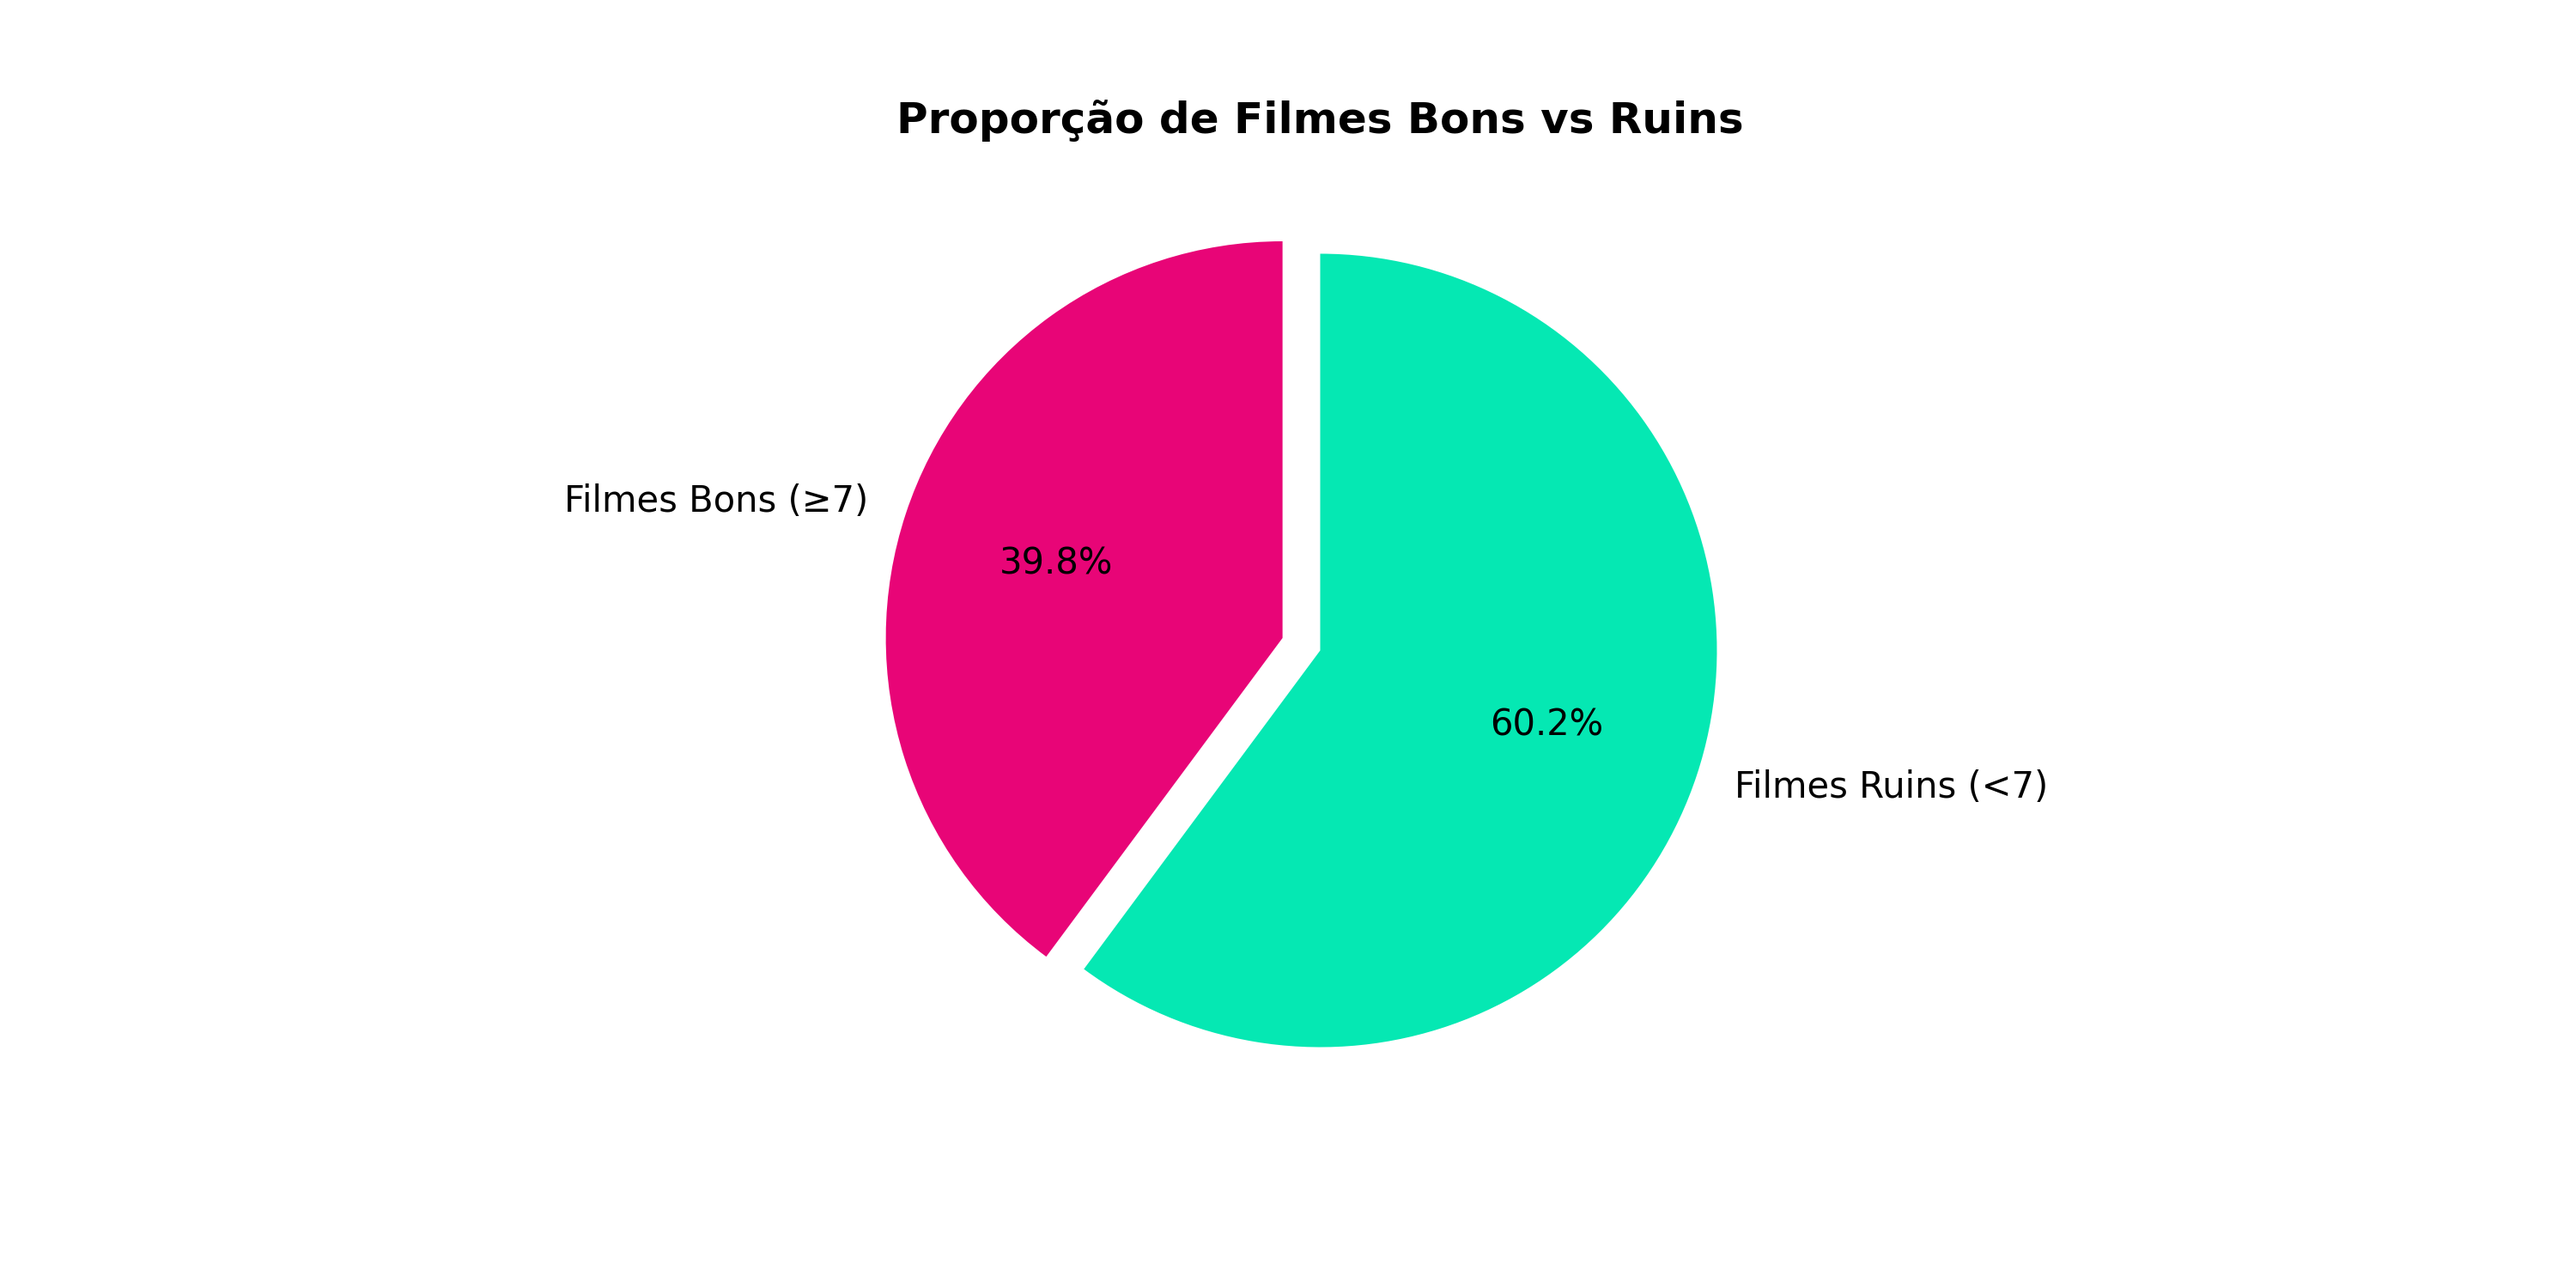
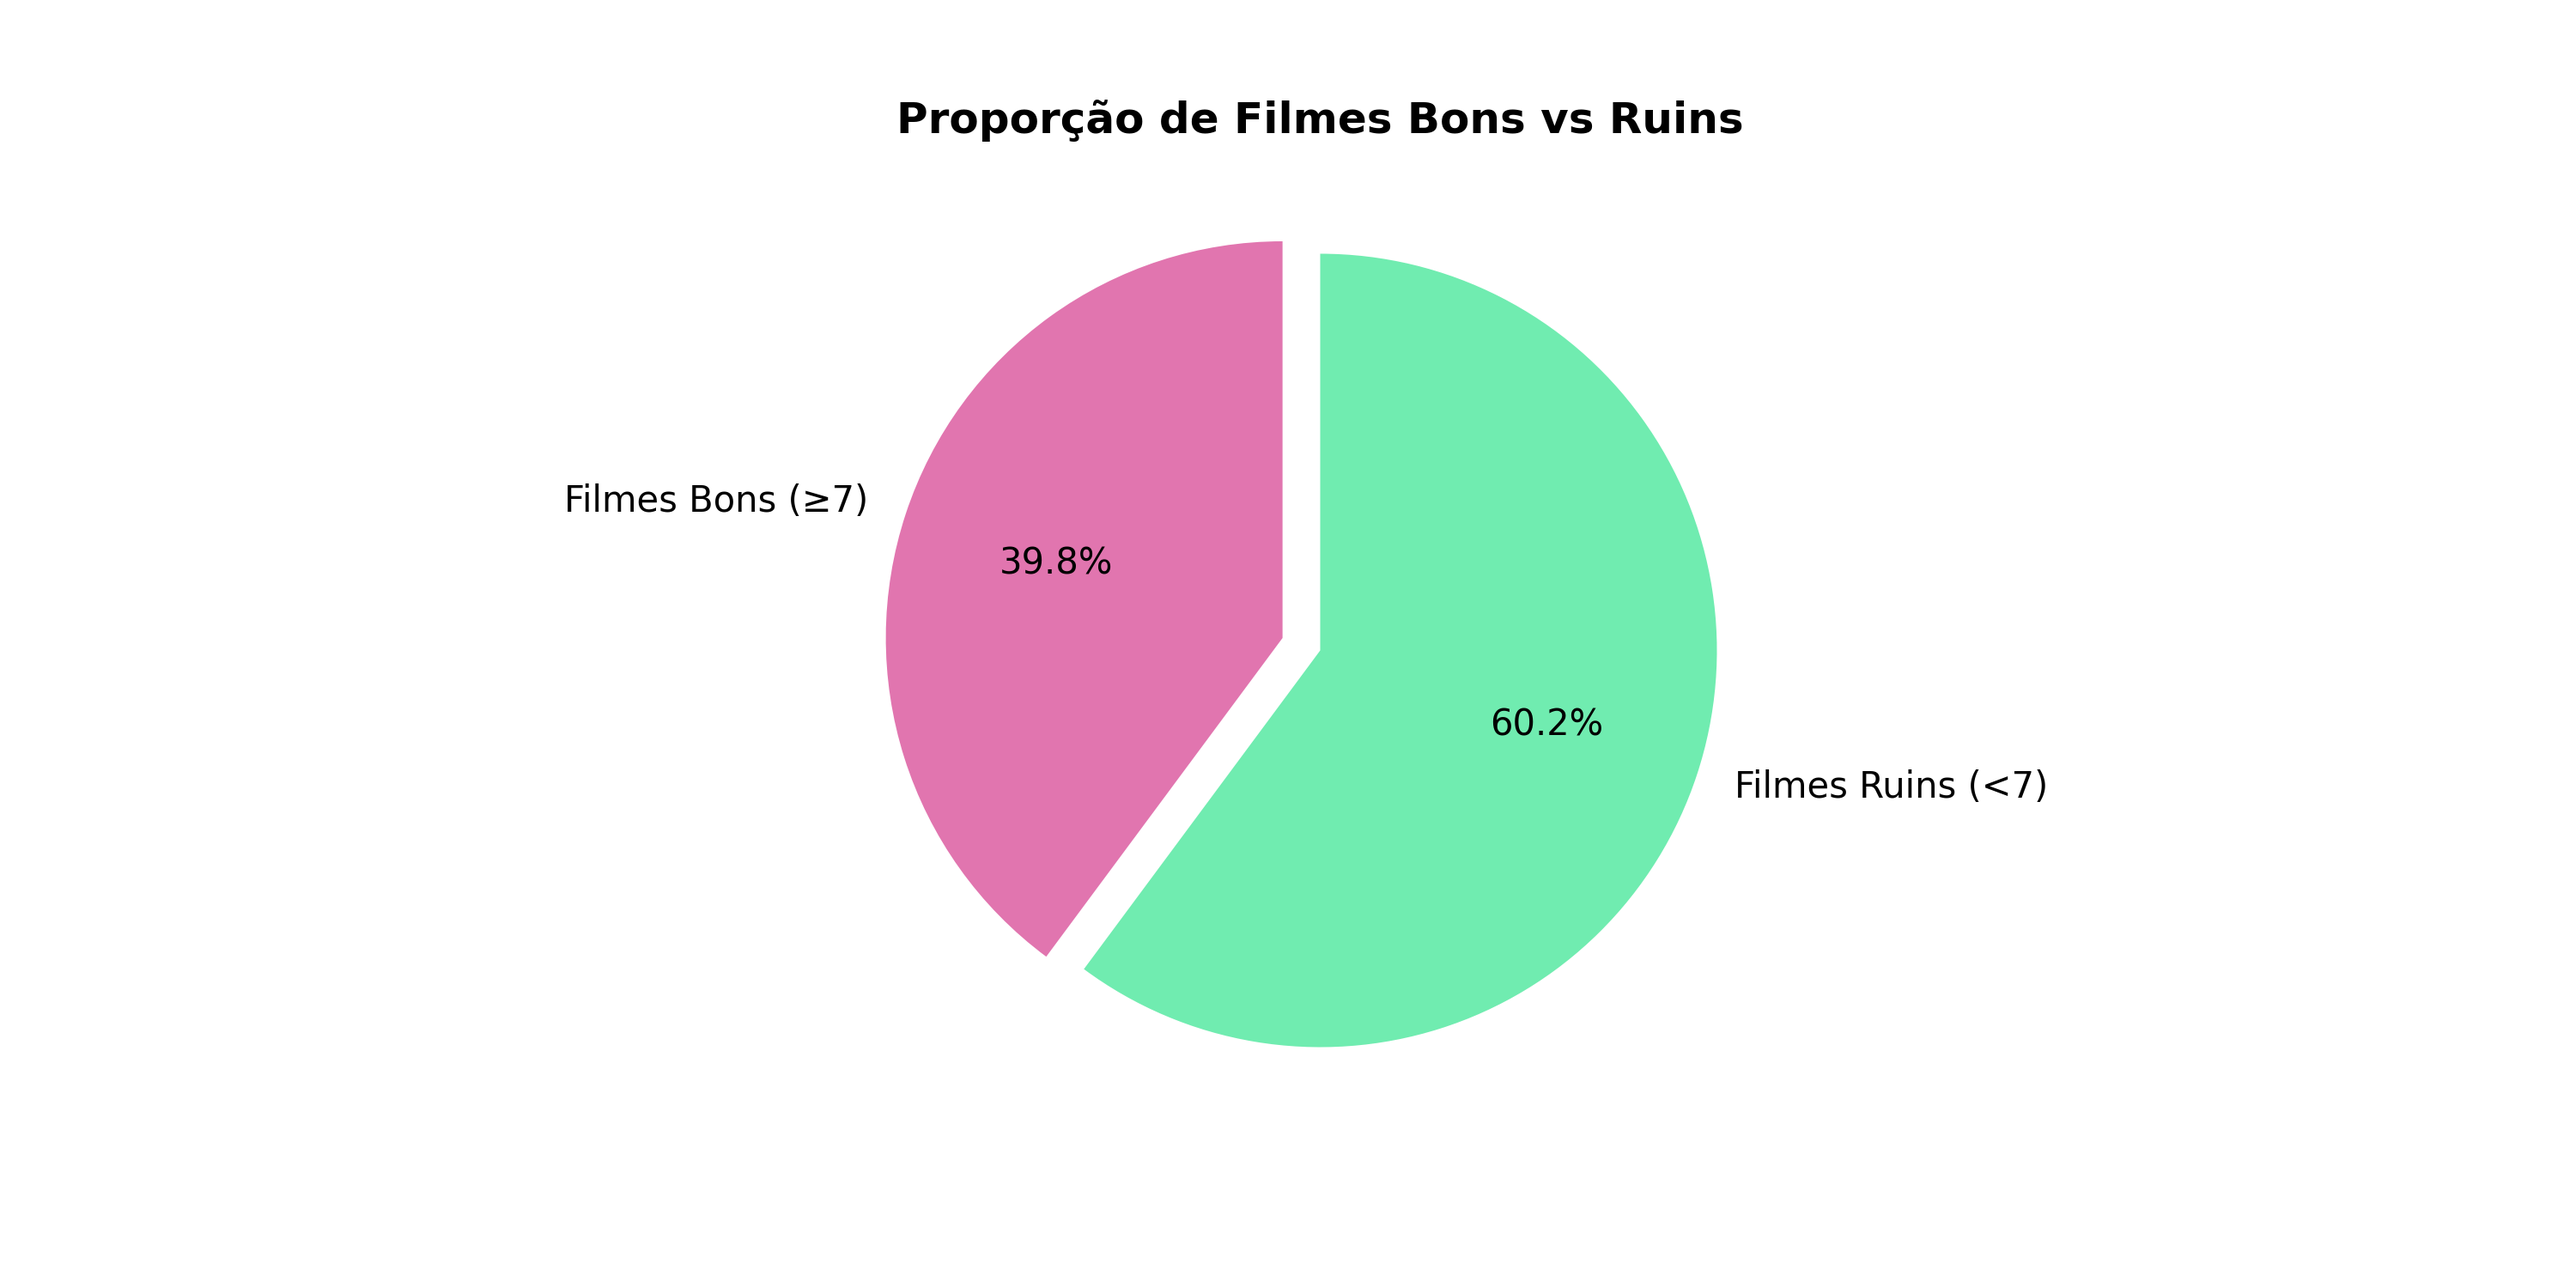
Add files via upload

Changed region(s): [[0.341, 0.184, 0.682, 0.828]]

diff --git a/trabalho_2/projeto_filmes.py b/trabalho_2/projeto_filmes.py
@@ -1,6 +1,9 @@
-# =========================
-# IMPORTAÇÃO DAS BIBLIOTECAS
-# =========================
+print('=========================')
+print('PROJETO FILMES')
+print('=========================\n\n')
+
+print('CARREGANDO AS BIBLIOTECAS...')
+print('--------------------------\n\n')
 
 import pandas as pd  
 # pandas = biblioteca para trabalhar com tabelas (DataFrame)
@@ -14,29 +17,12 @@ import matplotlib.pyplot as plt
 import seaborn as sns
 # seaborn = biblioteca para gráficos mais bonitos
 
+print('=========================')
+print('PARTE 1 - CARREGAMENTO E EXPLORAÇÃO')
+print('=========================\n\n')
 
-# =========================
-# PARTE 1 - CARREGAMENTO E EXPLORAÇÃO
-# =========================
-
-df = pd.read_csv('data.csv')  
+df = pd.read_csv('data.csv')
 # read_csv() = lê o arquivo CSV e transforma em tabela
-
-print(df.head())  
-# head() = mostra as 5 primeiras linhas
-
-print(df.shape)  
-# shape = mostra (linhas, colunas)
-
-print(df.dtypes)  
-# dtypes = mostra o tipo de cada coluna (int, float, object)
-
-print(df.info())  
-# info() = resumo geral (dados, nulos, tipos)
-
-print(df.describe())  
-# describe() = estatísticas (média, mínimo, máximo, etc)
-
 
 df.columns = df.columns.str.strip()
 # remove espaços antes/depois
@@ -44,12 +30,32 @@ df.columns = df.columns.str.strip()
 df.columns = df.columns.str.replace(" ", "_")
 # troca espaço por _
 
+print('AS 5 PRIMEIRAS LINHAS DO DATAFRAME: ')
+print(df[['Movie_Name', 'Movie_Rating']].head(), '\n') 
+# head() = mostra as 5 primeiras linhas
 
-# =========================
-# PARTE 2 - LIMPEZA 
-# =========================
+print('LINHAS X COLUNAS: ')
+print(df.shape, '\n')  
+# shape = mostra (linhas, colunas)
 
-print(df.isnull().sum())  
+print('TIPO DAS COLUNAS: ')
+print(df.dtypes, '\n')  
+# dtypes = mostra o tipo de cada coluna (int, float, object)
+
+print('RESUMO GERAL: ')
+print(df.info(), '\n')  
+# info() = resumo geral (dados, nulos, tipos)
+
+print('ESTATÍSTICAS: ')
+print(df.describe(), '\n')  
+# describe() = estatísticas (média, mínimo, máximo, etc)
+
+print('=========================')
+print('PARTE 2 - LIMPEZA ')
+print('=========================\n\n')
+
+print('VAZIOS: ')
+print(df.isnull().sum(), '\n')  
 # isnull() = verifica valores vazios
 # sum() = soma quantos tem em cada coluna
 
@@ -61,88 +67,104 @@ df = df.dropna(subset=['Gross'])
 # dropna() = remove linhas com valores vazios
 # subset = define a coluna que será verificada
 
+print('DUPLICADOS: ')
 df = df.drop_duplicates()  
 # drop_duplicates() = remove linhas repetidas
+print(df.duplicated().sum(),'\n')  
+# duplicated() = verifica quantas linhas repetidas ainda existem
 
-
-# =========================
-# PARTE 3 - ANÁLISE E FILTROS
-# =========================
+print('=========================')
+print('PARTE 3 - ANÁLISE E FILTROS')
+print('=========================\n\n')
 
 # Filmes com nota maior que 8 e mais de 100 mil votos
-filtro1 = df[(df['Movie_Rating'] > 8) & (df['Votes'] > 100000)]
+filtro1 = df[
+    (df['Movie_Rating'] > 8) &
+    (df['Votes'] > 100000)
+    ].head()
 # & = E (duas condições ao mesmo tempo)
 
-print(filtro1.head())  
+print('FILTRO 1 (Nota > 8 e Votos > 100k): ')
+print(filtro1[['Movie_Rating', 'Votes', 'Movie_Name']],'\n')  
 # mostra primeiros resultados
 
 # Filmes com nota maior que 9 ou MetaScore maior que 80
-filtro2 = df[(df['Movie_Rating'] > 9) | (df['MetaScore'] > 80)]
+filtro2 = df[
+    (df['Movie_Rating'] > 9) |
+    (df['MetaScore'] > 80)
+].head()
 # | = OU (uma ou outra condição)
 
-print(filtro2.head())
+print('FILTRO 2 (Nota > 9 ou MetaScore > 80): ')
+print(filtro2[['Movie_Rating', 'MetaScore', 'Movie_Name']],'\n')
 
 # Filmes com nota menor que 7 usando o 'não'
-filtro3 = df[~(df['Movie_Rating'] >= 7)]
+filtro3 = df[
+    ~(df['Movie_Rating'] >= 7)
+    ].head()
 # ~ = NÃO (negação)
 
-print(filtro3.head())
+print('FILTRO 3 (Nota < 7): ')
+print(filtro3[['Movie_Rating', 'Movie_Name']],'\n')
 
-
-# -------- ORDENAÇÃO --------
+print('-------- ORDENAÇÃO --------')
 
 # Top 10 filmes por nota (melhores)
 top10 = df.sort_values(by='Movie_Rating', ascending=False).head(10)
 # sort_values() = ordena dados
 # ascending=False = ordem decrescente
 
-print(top10[['Movie_Name', 'Movie_Rating']])
+print('TOP 10 (melhores): ')
+print(top10[['Movie_Name', 'Movie_Rating']],'\n')
 
 # Top 10 filmes por nota (piores)
 bottom10 = df.sort_values(by='Movie_Rating', ascending=True).head(10)
 # ascending=True = ordem crescente
 
-print(bottom10[['Movie_Name', 'Movie_Rating']])
+print('TOP 10 (piores): ')
+print(bottom10[['Movie_Name', 'Movie_Rating']],'\n')
 
-
-# -------- AGRUPAMENTO --------
+print('-------- AGRUPAMENTO --------')
 
 # Média de nota por ano de lançamento
 media_por_ano = df.groupby('Year_of_Release')['Movie_Rating'].mean()
 # groupby() = agrupa dados por coluna
 # mean() = média
 
-print(media_por_ano)
+print('MÉDIA DE NOTA POR ANO DE LANÇAMENTO:')
+print(media_por_ano,'\n')
 
 # Contagem de filmes por gênero
 generos = df['Genre'].value_counts()
 # value_counts() = conta quantas vezes cada valor aparece
 
-print(generos)
+print('CONTAGEM DE FILMES POR GÊNERO:')
+print(generos, '\n')
 
-
-# -------- NUMPY --------
+print('-------- NUMPY --------')
 
 # desvio padrão das notas
 desvio = np.std(df['Movie_Rating'])
 # std() = desvio padrão (variação dos dados)
 
-print("Desvio padrão:", desvio)
+print('DESVIO PADRÃO DAS NOTAS: ')
+print(desvio, '\n')
 
 # correlação entre nota e número de votos
 correlacao = np.corrcoef(df['Movie_Rating'], df['Votes'])
 # corrcoef() = correlação entre duas variáveis
 
-print("Correlação:", correlacao)
+print('CORRELAÇÃO ENTRE NOTA E NÚMERO DE VOTOS: ')
+print(correlacao, '\n')
 
-
-# -------- NOVA COLUNA --------
+print('-------- NOVA COLUNA --------')
 
 # nova coluna popularidade = nota * número de votos
 df['Popularidade'] = df['Movie_Rating'] * df['Votes']
 # cria nova coluna baseada em outras
 
-print(df[['Movie_Name', 'Popularidade']].head())
+print('POPULARIDADE: ')
+print(df[['Movie_Name', 'Popularidade']].head(), '\n')
 
 # =========================
 # PARTE 4 - GRÁFICOS
@@ -153,13 +175,13 @@ print(df[['Movie_Name', 'Popularidade']].head())
 # cria uma nova área de gráfico
 plt.figure(figsize=(10, 5))
 
-top_gen = df['Genre'].value_counts().head(5)
+top_gen = df['Genre'].value_counts().head(5) # os 5 do topo
 # conta os 5 gêneros mais frequentes
 
 sns.barplot(              # barplot() cria gráfico de barras
     x=top_gen.index,      # x = nomes das categorias (gêneros)
     y=top_gen.values,     # y = valores (quantidade de filmes em cada gênero)
-    color="#E80577",    # cor das barras
+    color= "#70ECB0",       # cor das barras
     width=0.9             # largura das barras
 )
 
@@ -179,34 +201,27 @@ plt.tight_layout()
 # ajusta o layout
 
 plt.savefig('grafico_barras.png', dpi=300)
-# salva o gráfico em alta qualidade
+# salva o gráfico em alta qualidade (PNG)
 
 plt.show()
 # mostra o gráfico
 
-
 # ----- HISTOGRAMA -----
-
 
 plt.figure(figsize=(10, 5))
 
-plt.hist(df['Movie_Rating'], bins=20, color="#E80577")
-# hist() = histograma
-# bins = quantidade de divisões
+sns.histplot(df['Movie_Rating'], bins=20, color= "#70ECB0")
 
 plt.title('Distribuição das Notas')
 plt.xlabel('Nota')
 plt.ylabel('Frequência')
-
 plt.tight_layout()
 # Ajusta o layout para não cortar elementos
 
 plt.savefig('histograma.png')
 plt.show()
 
-
 # ----- LINHA -----
-
 
 # Cria uma nova área para o gráfico
 plt.figure(figsize=(10, 5))
@@ -222,9 +237,9 @@ media_por_ano = media_por_ano.sort_index()
 sns.lineplot(
     x=media_por_ano.index,
     y=media_por_ano.values,
-    marker='^',        # adiciona pontos na linha
-    linewidth=2,       # deixa a linha mais grossa
-    color='#E80577'    # define a cor da linha
+    marker='^',          # adiciona pontos na linha
+    linewidth=2,         # deixa a linha mais grossa
+    color= "#70ECB0"   # define a cor da linha
 )
 # lineplot() cria o gráfico de linha
 
@@ -255,8 +270,8 @@ plt.savefig('grafico_linha.png', dpi=300)
 plt.show()
 # Exibe o gráfico na tela
 
-
 # ----- PIZZA -----
+
 plt.figure(figsize=(10, 5))
 # Cria uma nova área para o gráfico
 
@@ -272,7 +287,7 @@ plt.pie(                                # Cria o gráfico de pizza
     valores,                            # Tamanho de cada fatia
     labels=labels,                      # Nomes das fatias
     autopct='%1.1f%%',                  # Mostra a porcentagem em cada fatia
-    colors=["#E80577", "#05E8B3"],  # Define as cores
+    colors=["#E175AF", "#70ECB0"],  # Define as cores
     explode=(0.1, 0),                   # Destaca a maior fatia
     startangle=90                       # Gira o gráfico para melhor visualização
 )
@@ -286,7 +301,6 @@ plt.savefig('grafico_pizza.png', dpi=300)
 plt.show()
 # Exibe o gráfico na tela
 
-
 # =========================
 # BÔNUS - HEATMAP
 # =========================
@@ -299,7 +313,7 @@ plt.figure(figsize=(10, 5))
 correlacao = df[['Movie_Rating', 'Votes', 'MetaScore']].corr()
 # corr() = calcula correlação entre colunas
 
-sns.heatmap(correlacao, annot=True, cmap='Greens')
+sns.heatmap(correlacao, annot=True, cmap='Blues')
 # heatmap() = mapa de calor
 # annot=True = mostra os valores
 # cmap = paleta de cores
